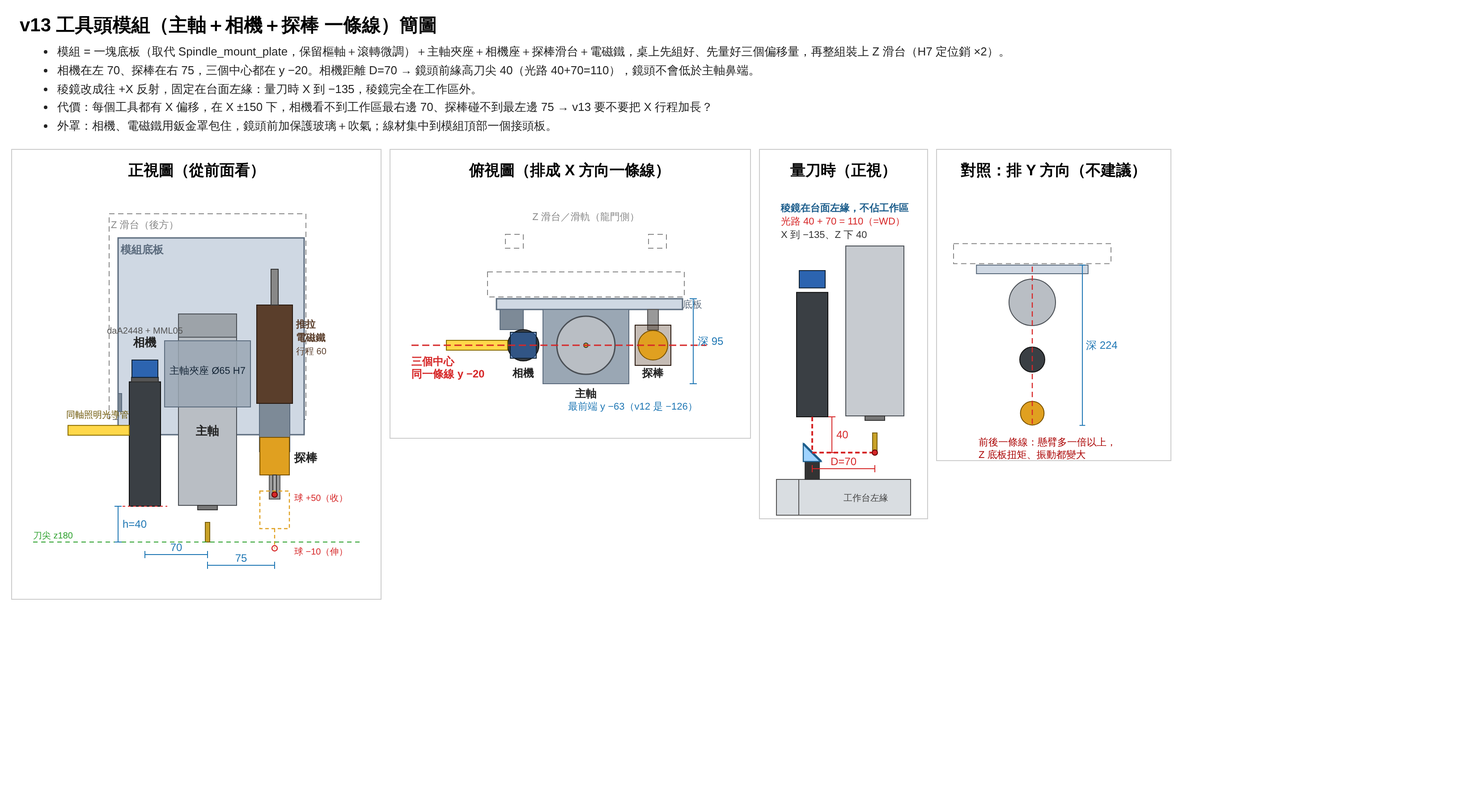
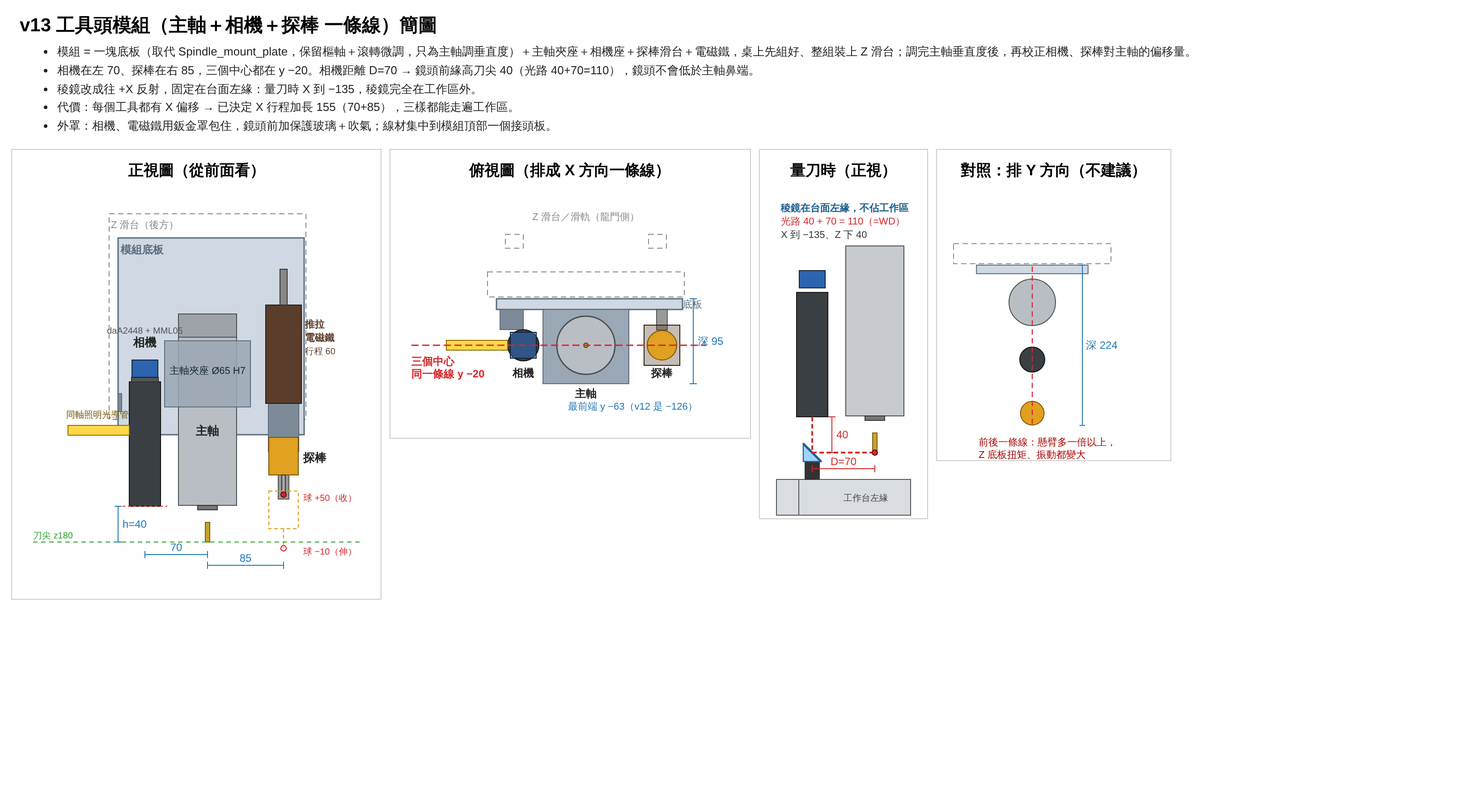
v13 concept: decisions recorded - spacing C (camera 70 / probe 85), X travel +155, one integrated module with spindle-only tram
Claude-Session: https://claude.ai/code/session_013qHaQ5tGPE7u3XPh9aofnH

diff --git a/output/v13/toolhead/concept.html b/output/v13/toolhead/concept.html
@@ -1,1 +1,1 @@
-<!doctype html><html><head><meta charset="utf-8"><title>v13 工具頭模組</title></head><body style="margin:0;background:#fff"><div style="font:700 21px sans-serif;margin:14px 22px 2px">v13 工具頭模組（主軸＋相機＋探棒 一條線）簡圖</div><ul style="font:13px/1.6 sans-serif;margin:6px 24px 14px;color:#222"><li>模組 = 一塊底板（取代 Spindle_mount_plate，保留樞軸＋滾轉微調）＋主軸夾座＋相機座＋探棒滑台＋電磁鐵，桌上先組好、先量好三個偏移量，再整組裝上 Z 滑台（H7 定位銷 ×2）。</li><li>相機在左 70、探棒在右 75，三個中心都在 y −20。相機距離 D=70 → 鏡頭前緣高刀尖 40（光路 40+70=110），鏡頭不會低於主軸鼻端。</li><li>稜鏡改成往 +X 反射，固定在台面左緣：量刀時 X 到 −135，稜鏡完全在工作區外。</li><li>代價：每個工具都有 X 偏移，在 X ±150 下，相機看不到工作區最右邊 70、探棒碰不到最左邊 75 → v13 要不要把 X 行程加長？</li><li>外罩：相機、電磁鐵用鈑金罩包住，鏡頭前加保護玻璃＋吹氣；線材集中到模組頂部一個接頭板。</li></ul><div style="display:flex;flex-wrap:wrap;gap:8px;padding:0 12px 12px"><svg width="415" height="505" xmlns="http://www.w3.org/2000/svg" font-family="sans-serif"><rect x="1" y="1" width="413" height="503" fill="#fff" stroke="#ccc"/><text x="208" y="30" font-size="17" font-weight="700" text-anchor="middle">正視圖（從前面看）</text><rect x="110.0" y="73.0" width="220.0" height="230.0" fill="none" stroke="#888" stroke-width="1" stroke-dasharray="6 4"/><text x="112.0" y="89.0" font-size="11" fill="#888" text-anchor="start">Z 滑台（後方）</text><rect x="120.0" y="100.0" width="208.0" height="220.0" fill="#cfd8e3" stroke="#5b6b7d" stroke-width="1.5" /><text x="123.0" y="117.0" font-size="12" fill="#5b6b7d" text-anchor="start" font-weight="700">模組底板</text><rect x="187.5" y="211.0" width="65.0" height="188.0" fill="#b9bec4" stroke="#4a4f55" stroke-width="1" /><rect x="187.5" y="185.0" width="65.0" height="26.0" fill="#9da3a9" stroke="#4a4f55" stroke-width="1" /><rect x="209.0" y="399.0" width="22.0" height="5.0" fill="#777" stroke="#333" stroke-width="1" /><rect x="217.5" y="418.0" width="5.0" height="22.0" fill="#c9a227" stroke="#7a6010" stroke-width="1" /><rect x="172.0" y="215.0" width="96.0" height="74.0" fill="#9aa7b4" stroke="#5b6b7d" stroke-width="1" fill-opacity=".85"/><text x="220.0" y="252.0" font-size="11" fill="#123" text-anchor="middle">主軸夾座 Ø65 H7</text><text x="220.0" y="320.0" font-size="13" fill="#222" text-anchor="middle" font-weight="700">主軸</text><rect x="132.5" y="260.9" width="35.0" height="139.1" fill="#3a3f44" stroke="#111" stroke-width="1" /><rect x="135.0" y="255.9" width="30.0" height="5.0" fill="#555" stroke="#333" stroke-width="1" /><rect x="135.5" y="236.5" width="29.0" height="19.4" fill="#2c64b0" stroke="#123" stroke-width="1" /><rect x="64.0" y="309.6" width="68.5" height="11.0" fill="#ffd84a" stroke="#8a6d00" stroke-width="1" /><text x="62.0" y="301.1" font-size="10" fill="#6a5300" text-anchor="start">同軸照明光導管</text><rect x="120.0" y="274.0" width="4.0" height="20.0" fill="#7d8a97" stroke="#5b6b7d" stroke-width="1" /><text x="150.0" y="220.9" font-size="13" fill="#222" text-anchor="middle" font-weight="700">相機</text><text x="150.0" y="206.9" font-size="10" fill="#555" text-anchor="middle">daA2448 + MML05</text><rect x="289.0" y="293.0" width="12.0" height="99.0" fill="#999" stroke="#555" stroke-width="1" /><rect x="278.0" y="285.0" width="34.0" height="54.0" fill="#7d8a97" stroke="#5b6b7d" stroke-width="1" /><rect x="278.5" y="323.0" width="33.0" height="42.0" fill="#e0a020" stroke="#7a5200" stroke-width="1" /><rect x="293.0" y="365.0" width="4.0" height="22.0" fill="#aaa" stroke="#333" stroke-width="1" /><circle cx="295.0" cy="387.0" r="3.0" fill="#d62728" stroke="#600" stroke-width="1" /><rect x="275.0" y="175.0" width="40.0" height="110.0" fill="#5a3e2b" stroke="#2a1a10" stroke-width="1" /><rect x="291.0" y="135.0" width="8.0" height="40.0" fill="#888" stroke="#333" stroke-width="1" /><text x="319.0" y="200.0" font-size="11" fill="#5a3e2b" text-anchor="start" font-weight="700">推拉</text><text x="319.0" y="215.0" font-size="11" fill="#5a3e2b" text-anchor="start" font-weight="700">電磁鐵</text><text x="319.0" y="230.0" font-size="10" fill="#5a3e2b" text-anchor="start">行程 60</text><text x="317.0" y="350.0" font-size="13" fill="#222" text-anchor="start" font-weight="700">探棒</text><rect x="278.5" y="383.0" width="33.0" height="42.0" fill="none" stroke="#e0a020" stroke-width="1.2" stroke-dasharray="4 3"/><line x1="295.0" y1="425.0" x2="295.0" y2="447.0" stroke="#e0a020" stroke-width="1.2" stroke-dasharray="4 3"/><circle cx="295.0" cy="447.0" r="3.0" fill="none" stroke="#d62728" stroke-width="1.2" /><line x1="25.0" y1="440.0" x2="390.0" y2="440.0" stroke="#2ca02c" stroke-width="1" stroke-dasharray="5 4"/><text x="25.0" y="436.0" font-size="10" fill="#2ca02c" text-anchor="start">刀尖 z180</text><line x1="125.0" y1="400.0" x2="175.0" y2="400.0" stroke="#d62728" stroke-width="1" stroke-dasharray="3 3"/><line x1="150.0" y1="454.0" x2="220.0" y2="454.0" stroke="#1f77b4" stroke-width="1"/><line x1="150.0" y1="458.0" x2="150.0" y2="450.0" stroke="#1f77b4" stroke-width="1"/><line x1="220.0" y1="458.0" x2="220.0" y2="450.0" stroke="#1f77b4" stroke-width="1"/><text x="185.0" y="450.0" font-size="12" fill="#1f77b4" text-anchor="middle">70</text><line x1="220.0" y1="466.0" x2="295.0" y2="466.0" stroke="#1f77b4" stroke-width="1"/><line x1="220.0" y1="470.0" x2="220.0" y2="462.0" stroke="#1f77b4" stroke-width="1"/><line x1="295.0" y1="470.0" x2="295.0" y2="462.0" stroke="#1f77b4" stroke-width="1"/><text x="257.5" y="462.0" font-size="12" fill="#1f77b4" text-anchor="middle">75</text><line x1="120.0" y1="440.0" x2="120.0" y2="400.0" stroke="#1f77b4" stroke-width="1"/><line x1="116.0" y1="440.0" x2="124.0" y2="440.0" stroke="#1f77b4" stroke-width="1"/><line x1="116.0" y1="400.0" x2="124.0" y2="400.0" stroke="#1f77b4" stroke-width="1"/><text x="125.0" y="424.0" font-size="12" fill="#1f77b4" text-anchor="start">h=40</text><text x="317.0" y="394.0" font-size="10" fill="#d62728" text-anchor="start">球 +50（收）</text><text x="317.0" y="454.0" font-size="10" fill="#d62728" text-anchor="start">球 −10（伸）</text></svg><svg width="405" height="325" xmlns="http://www.w3.org/2000/svg" font-family="sans-serif"><rect x="1" y="1" width="403" height="323" fill="#fff" stroke="#ccc"/><text x="202" y="30" font-size="17" font-weight="700" text-anchor="middle">俯視圖（排成 X 方向一條線）</text><rect x="110.0" y="138.0" width="220.0" height="28.0" fill="none" stroke="#888" stroke-width="1" stroke-dasharray="6 4"/><rect x="130.0" y="96.0" width="20.0" height="15.5" fill="none" stroke="#888" stroke-width="1" stroke-dasharray="6 4"/><rect x="290.0" y="96.0" width="20.0" height="15.5" fill="none" stroke="#888" stroke-width="1" stroke-dasharray="6 4"/><text x="220.0" y="80.0" font-size="11" fill="#888" text-anchor="middle">Z 滑台／滑軌（龍門側）</text><rect x="120.0" y="168.0" width="208.0" height="12.0" fill="#cfd8e3" stroke="#5b6b7d" stroke-width="1.5" /><text x="328.0" y="178.0" font-size="11" fill="#5b6b7d" text-anchor="start">底板</text><rect x="172.0" y="180.0" width="96.0" height="83.0" fill="#9aa7b4" stroke="#5b6b7d" stroke-width="1" /><circle cx="220.0" cy="220.0" r="32.5" fill="#b9bec4" stroke="#4a4f55" stroke-width="1.5" /><circle cx="220.0" cy="220.0" r="2.5" fill="#c9a227" stroke="#333" stroke-width="1" /><rect x="124.0" y="180.0" width="26.0" height="22.5" fill="#7d8a97" stroke="#5b6b7d" stroke-width="1" /><circle cx="150.0" cy="220.0" r="17.5" fill="#3a3f44" stroke="#111" stroke-width="1" /><rect x="135.5" y="205.5" width="29.0" height="29.0" fill="#2c64b0" stroke="#123" stroke-width="1" fill-opacity=".6"/><rect x="64.0" y="214.5" width="68.5" height="11.0" fill="#ffd84a" stroke="#8a6d00" stroke-width="1" /><rect x="289.0" y="180.0" width="12.0" height="23.0" fill="#999" stroke="#555" stroke-width="1" /><rect x="275.0" y="197.5" width="40.0" height="45.0" fill="#5a3e2b" stroke="#2a1a10" stroke-width="1" fill-opacity=".35"/><circle cx="295.0" cy="220.0" r="16.5" fill="#e0a020" stroke="#7a5200" stroke-width="1" /><line x1="25.0" y1="220.0" x2="355.0" y2="220.0" stroke="#d62728" stroke-width="1.5" stroke-dasharray="8 4"/><text x="25.0" y="242.0" font-size="12" fill="#d62728" text-anchor="start" font-weight="700">三個中心</text><text x="25.0" y="256.0" font-size="12" fill="#d62728" text-anchor="start" font-weight="700">同一條線 y −20</text><line x1="340.0" y1="263.0" x2="340.0" y2="168.0" stroke="#1f77b4" stroke-width="1"/><line x1="336.0" y1="263.0" x2="344.0" y2="263.0" stroke="#1f77b4" stroke-width="1"/><line x1="336.0" y1="168.0" x2="344.0" y2="168.0" stroke="#1f77b4" stroke-width="1"/><text x="345.0" y="219.5" font-size="12" fill="#1f77b4" text-anchor="start">深 95</text><text x="150.0" y="255.0" font-size="12" fill="#222" text-anchor="middle" font-weight="700">相機</text><text x="220.0" y="278.0" font-size="12" fill="#222" text-anchor="middle" font-weight="700">主軸</text><text x="295.0" y="255.0" font-size="12" fill="#222" text-anchor="middle" font-weight="700">探棒</text><text x="200.0" y="292.0" font-size="11" fill="#1f77b4" text-anchor="start">最前端 y −63（v12 是 −126）</text></svg><svg width="190" height="415" xmlns="http://www.w3.org/2000/svg" font-family="sans-serif"><rect x="1" y="1" width="188" height="413" fill="#fff" stroke="#ccc"/><text x="95" y="30" font-size="17" font-weight="700" text-anchor="middle">量刀時（正視）</text><rect x="20.0" y="370.0" width="150.0" height="40.0" fill="#d9dde1" stroke="#555" stroke-width="1" /><text x="95.0" y="394.0" font-size="10" fill="#444" text-anchor="start">工作台左緣</text><line x1="45.0" y1="410.0" x2="45.0" y2="370.0" stroke="#555" stroke-width="1"/><rect x="52.0" y="350.0" width="16.0" height="20.0" fill="#333" stroke="#333" stroke-width="1" /><polygon points="50.0,350.0 70.0,350.0 50.0,330.0" fill="#9fd3ff" stroke="#1d5e8c" stroke-width="1.2"/><line x1="50.0" y1="330.0" x2="70.0" y2="350.0" stroke="#1d5e8c" stroke-width="2.5"/><rect x="42.5" y="160.9" width="35.0" height="139.1" fill="#3a3f44" stroke="#111" stroke-width="1" /><rect x="45.5" y="136.5" width="29.0" height="19.4" fill="#2c64b0" stroke="#123" stroke-width="1" /><rect x="97.5" y="109.0" width="65.0" height="190.0" fill="#b9bec4" stroke="#4a4f55" stroke-width="1" fill-opacity=".8"/><rect x="119.0" y="299.0" width="22.0" height="5.0" fill="#777" stroke="#333" stroke-width="1" /><rect x="127.5" y="318.0" width="5.0" height="22.0" fill="#c9a227" stroke="#7a6010" stroke-width="1" /><line x1="60.0" y1="300.0" x2="60.0" y2="340.0" stroke="#d62728" stroke-width="2" stroke-dasharray="5 3"/><line x1="60.0" y1="340.0" x2="127.5" y2="340.0" stroke="#d62728" stroke-width="2" stroke-dasharray="5 3"/><circle cx="130.0" cy="340.0" r="3.0" fill="#d62728" stroke="#600" stroke-width="1" /><line x1="60.0" y1="358.0" x2="130.0" y2="358.0" stroke="#d62728" stroke-width="1"/><line x1="60.0" y1="362.0" x2="60.0" y2="354.0" stroke="#d62728" stroke-width="1"/><line x1="130.0" y1="362.0" x2="130.0" y2="354.0" stroke="#d62728" stroke-width="1"/><text x="95.0" y="354.0" font-size="12" fill="#d62728" text-anchor="middle">D=70</text><line x1="82.0" y1="340.0" x2="82.0" y2="300.0" stroke="#d62728" stroke-width="1"/><line x1="78.0" y1="340.0" x2="86.0" y2="340.0" stroke="#d62728" stroke-width="1"/><line x1="78.0" y1="300.0" x2="86.0" y2="300.0" stroke="#d62728" stroke-width="1"/><text x="87.0" y="324.0" font-size="12" fill="#d62728" text-anchor="start">40</text><text x="25.0" y="70.0" font-size="11" fill="#1d5e8c" text-anchor="start" font-weight="700">稜鏡在台面左緣，不佔工作區</text><text x="25.0" y="85.0" font-size="11" fill="#d62728" text-anchor="start">光路 40 + 70 = 110（=WD）</text><text x="25.0" y="100.0" font-size="11" fill="#333" text-anchor="start">X 到 −135、Z 下 40</text></svg><svg width="264" height="350" xmlns="http://www.w3.org/2000/svg" font-family="sans-serif"><rect x="1" y="1" width="262" height="348" fill="#fff" stroke="#ccc"/><text x="132" y="30" font-size="17" font-weight="700" text-anchor="middle">對照：排 Y 方向（不建議）</text><rect x="20.0" y="106.4" width="176.0" height="22.4" fill="none" stroke="#888" stroke-width="1" stroke-dasharray="6 4"/><rect x="45.6" y="130.4" width="124.8" height="9.6" fill="#cfd8e3" stroke="#5b6b7d" stroke-width="1" /><circle cx="108.0" cy="172.0" r="26.0" fill="#b9bec4" stroke="#4a4f55" stroke-width="1" /><circle cx="108.0" cy="236.0" r="14.0" fill="#3a3f44" stroke="#111" stroke-width="1" /><circle cx="108.0" cy="296.0" r="13.2" fill="#e0a020" stroke="#7a5200" stroke-width="1" /><line x1="108.0" y1="132.0" x2="108.0" y2="312.0" stroke="#d62728" stroke-width="1.2" stroke-dasharray="6 4"/><line x1="164.0" y1="309.6" x2="164.0" y2="130.4" stroke="#1f77b4" stroke-width="1"/><line x1="160.8" y1="309.6" x2="167.2" y2="309.6" stroke="#1f77b4" stroke-width="1"/><line x1="160.8" y1="130.4" x2="167.2" y2="130.4" stroke="#1f77b4" stroke-width="1"/><text x="168.0" y="224.0" font-size="12" fill="#1f77b4" text-anchor="start">深 224</text><text x="48.0" y="332.0" font-size="11" fill="#a00" text-anchor="start">前後一條線：懸臂多一倍以上，</text><text x="48.0" y="346.0" font-size="11" fill="#a00" text-anchor="start">Z 底板扭矩、振動都變大</text></svg></div></body></html>
+<!doctype html><html><head><meta charset="utf-8"><title>v13 工具頭模組</title></head><body style="margin:0;background:#fff"><div style="font:700 21px sans-serif;margin:14px 22px 2px">v13 工具頭模組（主軸＋相機＋探棒 一條線）簡圖</div><ul style="font:13px/1.6 sans-serif;margin:6px 24px 14px;color:#222"><li>模組 = 一塊底板（取代 Spindle_mount_plate，保留樞軸＋滾轉微調，只為主軸調垂直度）＋主軸夾座＋相機座＋探棒滑台＋電磁鐵，桌上先組好、整組裝上 Z 滑台；調完主軸垂直度後，再校正相機、探棒對主軸的偏移量。</li><li>相機在左 70、探棒在右 85，三個中心都在 y −20。相機距離 D=70 → 鏡頭前緣高刀尖 40（光路 40+70=110），鏡頭不會低於主軸鼻端。</li><li>稜鏡改成往 +X 反射，固定在台面左緣：量刀時 X 到 −135，稜鏡完全在工作區外。</li><li>代價：每個工具都有 X 偏移 → 已決定 X 行程加長 155（70+85），三樣都能走遍工作區。</li><li>外罩：相機、電磁鐵用鈑金罩包住，鏡頭前加保護玻璃＋吹氣；線材集中到模組頂部一個接頭板。</li></ul><div style="display:flex;flex-wrap:wrap;gap:8px;padding:0 12px 12px"><svg width="415" height="505" xmlns="http://www.w3.org/2000/svg" font-family="sans-serif"><rect x="1" y="1" width="413" height="503" fill="#fff" stroke="#ccc"/><text x="208" y="30" font-size="17" font-weight="700" text-anchor="middle">正視圖（從前面看）</text><rect x="110.0" y="73.0" width="220.0" height="230.0" fill="none" stroke="#888" stroke-width="1" stroke-dasharray="6 4"/><text x="112.0" y="89.0" font-size="11" fill="#888" text-anchor="start">Z 滑台（後方）</text><rect x="120.0" y="100.0" width="208.0" height="220.0" fill="#cfd8e3" stroke="#5b6b7d" stroke-width="1.5" /><text x="123.0" y="117.0" font-size="12" fill="#5b6b7d" text-anchor="start" font-weight="700">模組底板</text><rect x="187.5" y="211.0" width="65.0" height="188.0" fill="#b9bec4" stroke="#4a4f55" stroke-width="1" /><rect x="187.5" y="185.0" width="65.0" height="26.0" fill="#9da3a9" stroke="#4a4f55" stroke-width="1" /><rect x="209.0" y="399.0" width="22.0" height="5.0" fill="#777" stroke="#333" stroke-width="1" /><rect x="217.5" y="418.0" width="5.0" height="22.0" fill="#c9a227" stroke="#7a6010" stroke-width="1" /><rect x="172.0" y="215.0" width="96.0" height="74.0" fill="#9aa7b4" stroke="#5b6b7d" stroke-width="1" fill-opacity=".85"/><text x="220.0" y="252.0" font-size="11" fill="#123" text-anchor="middle">主軸夾座 Ø65 H7</text><text x="220.0" y="320.0" font-size="13" fill="#222" text-anchor="middle" font-weight="700">主軸</text><rect x="132.5" y="260.9" width="35.0" height="139.1" fill="#3a3f44" stroke="#111" stroke-width="1" /><rect x="135.0" y="255.9" width="30.0" height="5.0" fill="#555" stroke="#333" stroke-width="1" /><rect x="135.5" y="236.5" width="29.0" height="19.4" fill="#2c64b0" stroke="#123" stroke-width="1" /><rect x="64.0" y="309.6" width="68.5" height="11.0" fill="#ffd84a" stroke="#8a6d00" stroke-width="1" /><text x="62.0" y="301.1" font-size="10" fill="#6a5300" text-anchor="start">同軸照明光導管</text><rect x="120.0" y="274.0" width="4.0" height="20.0" fill="#7d8a97" stroke="#5b6b7d" stroke-width="1" /><text x="150.0" y="220.9" font-size="13" fill="#222" text-anchor="middle" font-weight="700">相機</text><text x="150.0" y="206.9" font-size="10" fill="#555" text-anchor="middle">daA2448 + MML05</text><rect x="299.0" y="293.0" width="12.0" height="99.0" fill="#999" stroke="#555" stroke-width="1" /><rect x="288.0" y="285.0" width="34.0" height="54.0" fill="#7d8a97" stroke="#5b6b7d" stroke-width="1" /><rect x="288.5" y="323.0" width="33.0" height="42.0" fill="#e0a020" stroke="#7a5200" stroke-width="1" /><rect x="303.0" y="365.0" width="4.0" height="22.0" fill="#aaa" stroke="#333" stroke-width="1" /><circle cx="305.0" cy="387.0" r="3.0" fill="#d62728" stroke="#600" stroke-width="1" /><rect x="285.0" y="175.0" width="40.0" height="110.0" fill="#5a3e2b" stroke="#2a1a10" stroke-width="1" /><rect x="301.0" y="135.0" width="8.0" height="40.0" fill="#888" stroke="#333" stroke-width="1" /><text x="329.0" y="200.0" font-size="11" fill="#5a3e2b" text-anchor="start" font-weight="700">推拉</text><text x="329.0" y="215.0" font-size="11" fill="#5a3e2b" text-anchor="start" font-weight="700">電磁鐵</text><text x="329.0" y="230.0" font-size="10" fill="#5a3e2b" text-anchor="start">行程 60</text><text x="327.0" y="350.0" font-size="13" fill="#222" text-anchor="start" font-weight="700">探棒</text><rect x="288.5" y="383.0" width="33.0" height="42.0" fill="none" stroke="#e0a020" stroke-width="1.2" stroke-dasharray="4 3"/><line x1="305.0" y1="425.0" x2="305.0" y2="447.0" stroke="#e0a020" stroke-width="1.2" stroke-dasharray="4 3"/><circle cx="305.0" cy="447.0" r="3.0" fill="none" stroke="#d62728" stroke-width="1.2" /><line x1="25.0" y1="440.0" x2="390.0" y2="440.0" stroke="#2ca02c" stroke-width="1" stroke-dasharray="5 4"/><text x="25.0" y="436.0" font-size="10" fill="#2ca02c" text-anchor="start">刀尖 z180</text><line x1="125.0" y1="400.0" x2="175.0" y2="400.0" stroke="#d62728" stroke-width="1" stroke-dasharray="3 3"/><line x1="150.0" y1="454.0" x2="220.0" y2="454.0" stroke="#1f77b4" stroke-width="1"/><line x1="150.0" y1="458.0" x2="150.0" y2="450.0" stroke="#1f77b4" stroke-width="1"/><line x1="220.0" y1="458.0" x2="220.0" y2="450.0" stroke="#1f77b4" stroke-width="1"/><text x="185.0" y="450.0" font-size="12" fill="#1f77b4" text-anchor="middle">70</text><line x1="220.0" y1="466.0" x2="305.0" y2="466.0" stroke="#1f77b4" stroke-width="1"/><line x1="220.0" y1="470.0" x2="220.0" y2="462.0" stroke="#1f77b4" stroke-width="1"/><line x1="305.0" y1="470.0" x2="305.0" y2="462.0" stroke="#1f77b4" stroke-width="1"/><text x="262.5" y="462.0" font-size="12" fill="#1f77b4" text-anchor="middle">85</text><line x1="120.0" y1="440.0" x2="120.0" y2="400.0" stroke="#1f77b4" stroke-width="1"/><line x1="116.0" y1="440.0" x2="124.0" y2="440.0" stroke="#1f77b4" stroke-width="1"/><line x1="116.0" y1="400.0" x2="124.0" y2="400.0" stroke="#1f77b4" stroke-width="1"/><text x="125.0" y="424.0" font-size="12" fill="#1f77b4" text-anchor="start">h=40</text><text x="327.0" y="394.0" font-size="10" fill="#d62728" text-anchor="start">球 +50（收）</text><text x="327.0" y="454.0" font-size="10" fill="#d62728" text-anchor="start">球 −10（伸）</text></svg><svg width="405" height="325" xmlns="http://www.w3.org/2000/svg" font-family="sans-serif"><rect x="1" y="1" width="403" height="323" fill="#fff" stroke="#ccc"/><text x="202" y="30" font-size="17" font-weight="700" text-anchor="middle">俯視圖（排成 X 方向一條線）</text><rect x="110.0" y="138.0" width="220.0" height="28.0" fill="none" stroke="#888" stroke-width="1" stroke-dasharray="6 4"/><rect x="130.0" y="96.0" width="20.0" height="15.5" fill="none" stroke="#888" stroke-width="1" stroke-dasharray="6 4"/><rect x="290.0" y="96.0" width="20.0" height="15.5" fill="none" stroke="#888" stroke-width="1" stroke-dasharray="6 4"/><text x="220.0" y="80.0" font-size="11" fill="#888" text-anchor="middle">Z 滑台／滑軌（龍門側）</text><rect x="120.0" y="168.0" width="208.0" height="12.0" fill="#cfd8e3" stroke="#5b6b7d" stroke-width="1.5" /><text x="328.0" y="178.0" font-size="11" fill="#5b6b7d" text-anchor="start">底板</text><rect x="172.0" y="180.0" width="96.0" height="83.0" fill="#9aa7b4" stroke="#5b6b7d" stroke-width="1" /><circle cx="220.0" cy="220.0" r="32.5" fill="#b9bec4" stroke="#4a4f55" stroke-width="1.5" /><circle cx="220.0" cy="220.0" r="2.5" fill="#c9a227" stroke="#333" stroke-width="1" /><rect x="124.0" y="180.0" width="26.0" height="22.5" fill="#7d8a97" stroke="#5b6b7d" stroke-width="1" /><circle cx="150.0" cy="220.0" r="17.5" fill="#3a3f44" stroke="#111" stroke-width="1" /><rect x="135.5" y="205.5" width="29.0" height="29.0" fill="#2c64b0" stroke="#123" stroke-width="1" fill-opacity=".6"/><rect x="64.0" y="214.5" width="68.5" height="11.0" fill="#ffd84a" stroke="#8a6d00" stroke-width="1" /><rect x="299.0" y="180.0" width="12.0" height="23.0" fill="#999" stroke="#555" stroke-width="1" /><rect x="285.0" y="197.5" width="40.0" height="45.0" fill="#5a3e2b" stroke="#2a1a10" stroke-width="1" fill-opacity=".35"/><circle cx="305.0" cy="220.0" r="16.5" fill="#e0a020" stroke="#7a5200" stroke-width="1" /><line x1="25.0" y1="220.0" x2="355.0" y2="220.0" stroke="#d62728" stroke-width="1.5" stroke-dasharray="8 4"/><text x="25.0" y="242.0" font-size="12" fill="#d62728" text-anchor="start" font-weight="700">三個中心</text><text x="25.0" y="256.0" font-size="12" fill="#d62728" text-anchor="start" font-weight="700">同一條線 y −20</text><line x1="340.0" y1="263.0" x2="340.0" y2="168.0" stroke="#1f77b4" stroke-width="1"/><line x1="336.0" y1="263.0" x2="344.0" y2="263.0" stroke="#1f77b4" stroke-width="1"/><line x1="336.0" y1="168.0" x2="344.0" y2="168.0" stroke="#1f77b4" stroke-width="1"/><text x="345.0" y="219.5" font-size="12" fill="#1f77b4" text-anchor="start">深 95</text><text x="150.0" y="255.0" font-size="12" fill="#222" text-anchor="middle" font-weight="700">相機</text><text x="220.0" y="278.0" font-size="12" fill="#222" text-anchor="middle" font-weight="700">主軸</text><text x="305.0" y="255.0" font-size="12" fill="#222" text-anchor="middle" font-weight="700">探棒</text><text x="200.0" y="292.0" font-size="11" fill="#1f77b4" text-anchor="start">最前端 y −63（v12 是 −126）</text></svg><svg width="190" height="415" xmlns="http://www.w3.org/2000/svg" font-family="sans-serif"><rect x="1" y="1" width="188" height="413" fill="#fff" stroke="#ccc"/><text x="95" y="30" font-size="17" font-weight="700" text-anchor="middle">量刀時（正視）</text><rect x="20.0" y="370.0" width="150.0" height="40.0" fill="#d9dde1" stroke="#555" stroke-width="1" /><text x="95.0" y="394.0" font-size="10" fill="#444" text-anchor="start">工作台左緣</text><line x1="45.0" y1="410.0" x2="45.0" y2="370.0" stroke="#555" stroke-width="1"/><rect x="52.0" y="350.0" width="16.0" height="20.0" fill="#333" stroke="#333" stroke-width="1" /><polygon points="50.0,350.0 70.0,350.0 50.0,330.0" fill="#9fd3ff" stroke="#1d5e8c" stroke-width="1.2"/><line x1="50.0" y1="330.0" x2="70.0" y2="350.0" stroke="#1d5e8c" stroke-width="2.5"/><rect x="42.5" y="160.9" width="35.0" height="139.1" fill="#3a3f44" stroke="#111" stroke-width="1" /><rect x="45.5" y="136.5" width="29.0" height="19.4" fill="#2c64b0" stroke="#123" stroke-width="1" /><rect x="97.5" y="109.0" width="65.0" height="190.0" fill="#b9bec4" stroke="#4a4f55" stroke-width="1" fill-opacity=".8"/><rect x="119.0" y="299.0" width="22.0" height="5.0" fill="#777" stroke="#333" stroke-width="1" /><rect x="127.5" y="318.0" width="5.0" height="22.0" fill="#c9a227" stroke="#7a6010" stroke-width="1" /><line x1="60.0" y1="300.0" x2="60.0" y2="340.0" stroke="#d62728" stroke-width="2" stroke-dasharray="5 3"/><line x1="60.0" y1="340.0" x2="127.5" y2="340.0" stroke="#d62728" stroke-width="2" stroke-dasharray="5 3"/><circle cx="130.0" cy="340.0" r="3.0" fill="#d62728" stroke="#600" stroke-width="1" /><line x1="60.0" y1="358.0" x2="130.0" y2="358.0" stroke="#d62728" stroke-width="1"/><line x1="60.0" y1="362.0" x2="60.0" y2="354.0" stroke="#d62728" stroke-width="1"/><line x1="130.0" y1="362.0" x2="130.0" y2="354.0" stroke="#d62728" stroke-width="1"/><text x="95.0" y="354.0" font-size="12" fill="#d62728" text-anchor="middle">D=70</text><line x1="82.0" y1="340.0" x2="82.0" y2="300.0" stroke="#d62728" stroke-width="1"/><line x1="78.0" y1="340.0" x2="86.0" y2="340.0" stroke="#d62728" stroke-width="1"/><line x1="78.0" y1="300.0" x2="86.0" y2="300.0" stroke="#d62728" stroke-width="1"/><text x="87.0" y="324.0" font-size="12" fill="#d62728" text-anchor="start">40</text><text x="25.0" y="70.0" font-size="11" fill="#1d5e8c" text-anchor="start" font-weight="700">稜鏡在台面左緣，不佔工作區</text><text x="25.0" y="85.0" font-size="11" fill="#d62728" text-anchor="start">光路 40 + 70 = 110（=WD）</text><text x="25.0" y="100.0" font-size="11" fill="#333" text-anchor="start">X 到 −135、Z 下 40</text></svg><svg width="264" height="350" xmlns="http://www.w3.org/2000/svg" font-family="sans-serif"><rect x="1" y="1" width="262" height="348" fill="#fff" stroke="#ccc"/><text x="132" y="30" font-size="17" font-weight="700" text-anchor="middle">對照：排 Y 方向（不建議）</text><rect x="20.0" y="106.4" width="176.0" height="22.4" fill="none" stroke="#888" stroke-width="1" stroke-dasharray="6 4"/><rect x="45.6" y="130.4" width="124.8" height="9.6" fill="#cfd8e3" stroke="#5b6b7d" stroke-width="1" /><circle cx="108.0" cy="172.0" r="26.0" fill="#b9bec4" stroke="#4a4f55" stroke-width="1" /><circle cx="108.0" cy="236.0" r="14.0" fill="#3a3f44" stroke="#111" stroke-width="1" /><circle cx="108.0" cy="296.0" r="13.2" fill="#e0a020" stroke="#7a5200" stroke-width="1" /><line x1="108.0" y1="132.0" x2="108.0" y2="312.0" stroke="#d62728" stroke-width="1.2" stroke-dasharray="6 4"/><line x1="164.0" y1="309.6" x2="164.0" y2="130.4" stroke="#1f77b4" stroke-width="1"/><line x1="160.8" y1="309.6" x2="167.2" y2="309.6" stroke="#1f77b4" stroke-width="1"/><line x1="160.8" y1="130.4" x2="167.2" y2="130.4" stroke="#1f77b4" stroke-width="1"/><text x="168.0" y="224.0" font-size="12" fill="#1f77b4" text-anchor="start">深 224</text><text x="48.0" y="332.0" font-size="11" fill="#a00" text-anchor="start">前後一條線：懸臂多一倍以上，</text><text x="48.0" y="346.0" font-size="11" fill="#a00" text-anchor="start">Z 底板扭矩、振動都變大</text></svg></div></body></html>

diff --git a/freecad/v13/00_toolhead_concept_sketch.py b/freecad/v13/00_toolhead_concept_sketch.py
@@ -6,7 +6,7 @@ OUT = os.path.join(os.path.dirname(__file__), '..', '..', 'output', 'v13', 'tool
 # ---- concept numbers (mm, machine frame of v12: spindle axis x0 y-20, tool tip z180 at home)
 SY = -20.0; TIP = 180.0
 CX = -70.0                      # camera axis (left)
-PX = 75.0                       # probe axis (right)
+PX = 85.0                       # probe axis (right)  -- decided: option C 70/85
 WD = 110.0
 H = WD - abs(CX)                # lens front above tool tip -> path = H + D = 110
 LF = TIP + H                    # lens front z
@@ -90,7 +90,7 @@ def front():
     v.line(-195, TIP, 170, TIP, C['grn'], 1, '5 4'); v.text(-195, TIP, '刀尖 z180', 10, C['grn'], 'start', dy=-4)
     v.line(CX - 25, LF, CX + 25, LF, C['red'], 1, '3 3')
     v.dim(CX, 166, 0, 166, '70', horiz=True)
-    v.dim(0, 154, PX, 154, '75', horiz=True)
+    v.dim(0, 154, PX, 154, '%d' % PX, horiz=True)
     v.dim(CX - 30, TIP, CX - 30, LF, 'h=%d' % H, horiz=False)
     v.text(PX + 22, BALL_R, '球 +50（收）', 10, C['red'], 'start', dy=4)
     v.text(PX + 22, BALL_E, '球 −10（伸）', 10, C['red'], 'start', dy=4)
@@ -164,10 +164,10 @@ def svg(view_t):
 def main():
     os.makedirs(OUT, exist_ok=True)
     notes = ('<ul style="font:13px/1.6 sans-serif;margin:6px 24px 14px;color:#222">'
-             f'<li>模組 = 一塊底板（取代 Spindle_mount_plate，保留樞軸＋滾轉微調）＋主軸夾座＋相機座＋探棒滑台＋電磁鐵，桌上先組好、先量好三個偏移量，再整組裝上 Z 滑台（H7 定位銷 ×2）。</li>'
+             f'<li>模組 = 一塊底板（取代 Spindle_mount_plate，保留樞軸＋滾轉微調，只為主軸調垂直度）＋主軸夾座＋相機座＋探棒滑台＋電磁鐵，桌上先組好、整組裝上 Z 滑台；調完主軸垂直度後，再校正相機、探棒對主軸的偏移量。</li>'
              f'<li>相機在左 {abs(CX):.0f}、探棒在右 {PX:.0f}，三個中心都在 y −20。相機距離 D={abs(CX):.0f} → 鏡頭前緣高刀尖 {H:.0f}（光路 {H:.0f}+{abs(CX):.0f}=110），鏡頭不會低於主軸鼻端。</li>'
              '<li>稜鏡改成往 +X 反射，固定在台面左緣：量刀時 X 到 −135，稜鏡完全在工作區外。</li>'
-             '<li>代價：每個工具都有 X 偏移，在 X ±150 下，相機看不到工作區最右邊 70、探棒碰不到最左邊 75 → v13 要不要把 X 行程加長？</li>'
+             '<li>代價：每個工具都有 X 偏移 → 已決定 X 行程加長 155（70+85），三樣都能走遍工作區。</li>'
              '<li>外罩：相機、電磁鐵用鈑金罩包住，鏡頭前加保護玻璃＋吹氣；線材集中到模組頂部一個接頭板。</li></ul>')
     html = ('<!doctype html><html><head><meta charset="utf-8"><title>v13 工具頭模組</title></head>'
             '<body style="margin:0;background:#fff">'

diff --git a/output/v13/toolhead/README.md b/output/v13/toolhead/README.md
@@ -1,0 +1,11 @@
+# v13 tool-head module – decisions so far
+
+| # | Question | Decision |
+|---|----------|----------|
+| 1 | X travel | Lengthen X so spindle, camera and probe all cover the 300×300 work area |
+| 2 | Spacing (camera D / probe P) | **C: camera 70 mm left, probe 85 mm right**, all centres on y −20 → X travel +155 mm. Lens front 40 above the tool tip (4 above the spindle nose); light path 40 + 70 = 110 = WD |
+| 3 | Mounting | One integrated module. The module plate replaces Spindle_mount_plate and keeps the pivot + roll adjusters for spindle tram only; camera and probe offsets are calibrated after tramming |
+
+Prism: reflects +X, fixed at the left edge of the table, outside the work area (tool measured at X −135, Z −40).
+
+Sketches: `concept.png` (layout), `spacing_options.png` (question 2).
